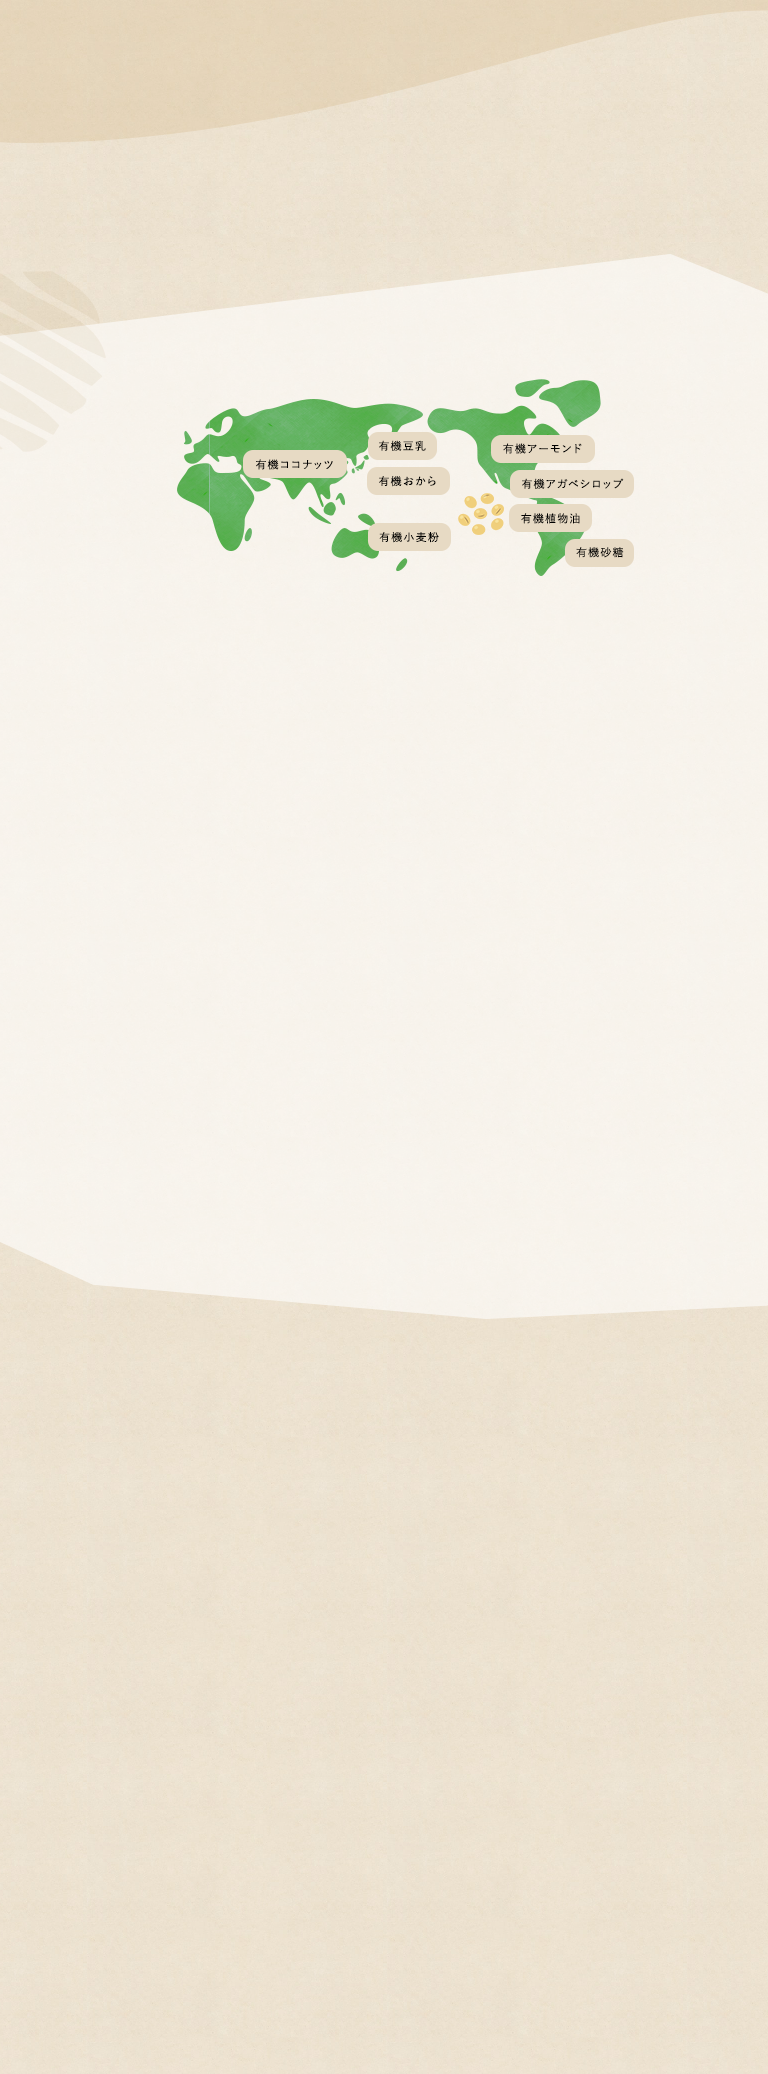
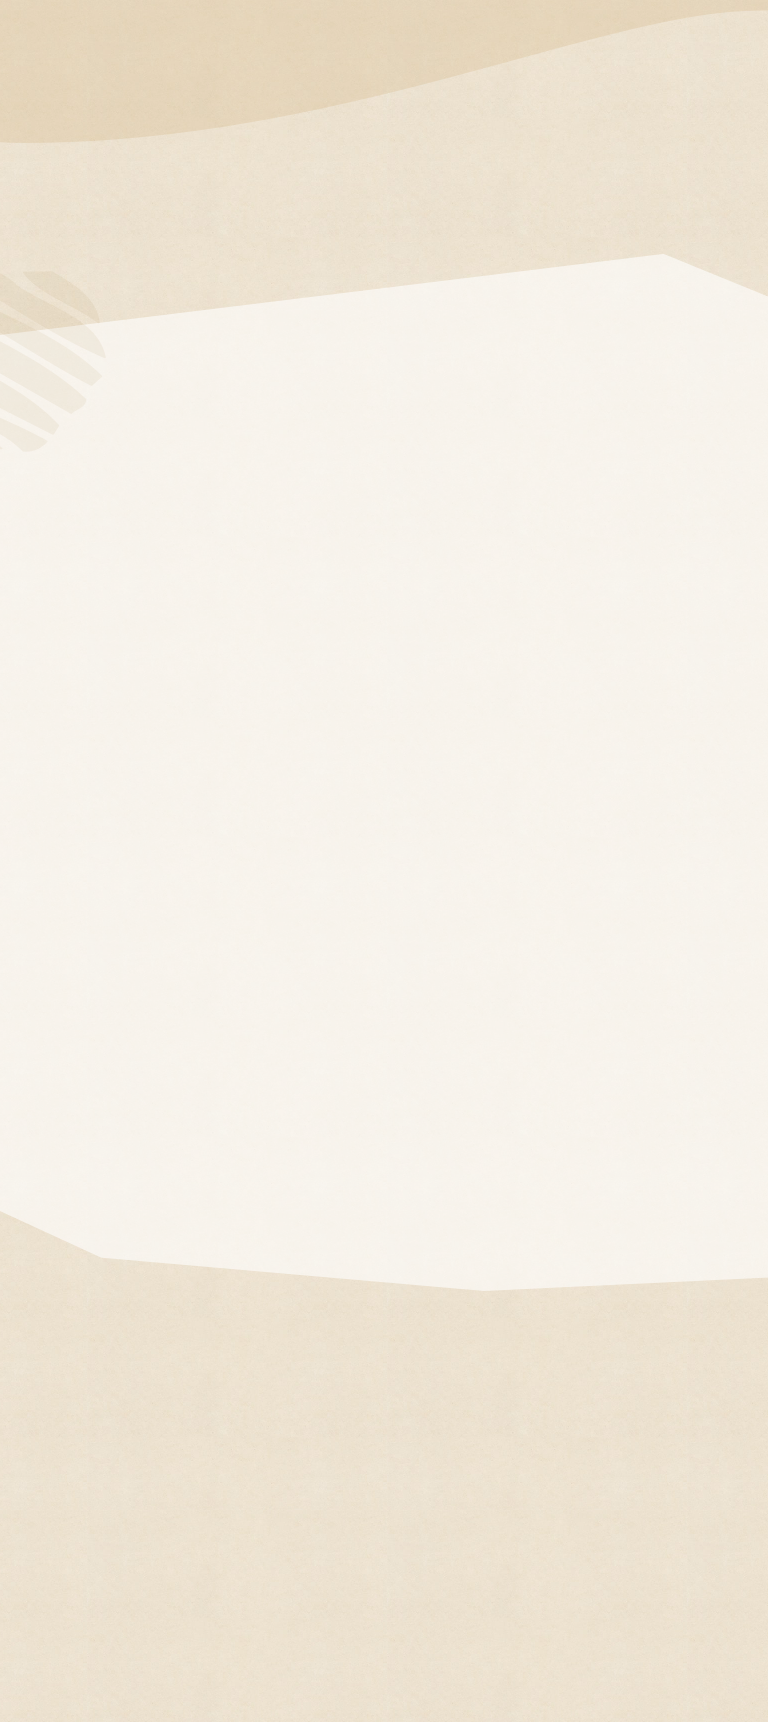
ワールドのスマホ用背景とこだわりのボックス画像を修正

Changed region(s): [[0.0, 0.5848, 1.0, 0.7695], [0.0, 0.1231, 1.0, 0.277]]

diff --git a/scss/main.scss b/scss/main.scss
@@ -1191,7 +1191,7 @@
     display: block;
     width: get_vw(700);
     height: get_vw(332);
-    margin-top: get_vw(17);
+    margin: get_vw(17) auto 0;
   }
   &__explanation {
     width: get_vw(444);
@@ -1253,8 +1253,8 @@
 }
 @media screen and (max-width: 768px) {
   .world {
-    height: sp-get_vw(2074);
-    padding-top: sp-get_vw(160);
+    height: sp-get_vw(1722);
+    padding-top: sp-get_vw(236);
     background-image: url(../img/world_bg-sp.png);
     background-size: cover;
     background-position: top;
@@ -1268,7 +1268,6 @@
       }
     }
     &__collect {
-      margin-top: sp-get_vw(150);
       margin-left: 4.51042vw;
       font-size: sp-get_vw(28);
     }
@@ -1276,18 +1275,13 @@
       display: none;
     }
     &__explanation {
-      margin-top: sp-get_vw(600);
-      padding: sp-get_vw(40);
+      width: get_vw(700);
       font-size: 16px;
       line-height:1.8;
     }
     &__delicious {
-      margin-top: sp-get_vw(100);
       margin-right: 7.76562vw;
       font-size: sp-get_vw(28);
-    }
-    &__distribution {
-      padding-top: sp-get_vw(40);
     }
   }
 }
@@ -1458,13 +1452,13 @@
       flex-direction: column;
     }
     &__okara {
-      width: sp-get_vw(680);
-      height: 113.16667vw;
+      width: sp-get_vw(675);
+      height: sp-get_vw(1380);
       margin: 0 auto;
       padding-top: sp-get_vw(60);
       padding-right: sp-get_vw(58);
       padding-left: sp-get_vw(68);
-      background-image: url(../img/commitment_okara-bg.png);
+      background-image: url(../img/commitment_okara-bg-sp.png);
       &-title {
         font-size: 3.64583vw;
       }
@@ -1475,12 +1469,12 @@
     }
     &__recipe {
       width: sp-get_vw(680);
-      height: 113.16667vw;
+      height: sp-get_vw(1380);
       margin: 0 auto;
       padding-top: sp-get_vw(60);
       padding-right: sp-get_vw(58);
       padding-left: sp-get_vw(60);
-      background-image: url(../img/commitment_recipe-bg.png);
+      background-image: url(../img/commitment_recipe-bg-sp.png);
       background-position: center;
       &-title {
         font-size: 3.64583vw;

diff --git a/css/style.css b/css/style.css
@@ -1261,7 +1261,7 @@
   display: block;
   width: 54.6875vw;
   height: 25.9375vw;
-  margin-top: 1.32812vw;
+  margin: 1.32812vw auto 0;
 }
 
 .world__explanation {
@@ -1327,8 +1327,8 @@
 
 @media screen and (max-width: 768px) {
   .world {
-    height: 270.05208vw;
-    padding-top: 20.83333vw;
+    height: 224.21875vw;
+    padding-top: 30.72917vw;
     background-image: url(../img/world_bg-sp.png);
     background-size: cover;
     background-position: top;
@@ -1343,7 +1343,6 @@
     background-image: url(../img/world_title-bg-sp.png);
   }
   .world__collect {
-    margin-top: 19.53125vw;
     margin-left: 4.51042vw;
     font-size: 3.64583vw;
   }
@@ -1351,18 +1350,13 @@
     display: none;
   }
   .world__explanation {
-    margin-top: 78.125vw;
-    padding: 5.20833vw;
+    width: 54.6875vw;
     font-size: 16px;
     line-height: 1.8;
   }
   .world__delicious {
-    margin-top: 13.02083vw;
     margin-right: 7.76562vw;
     font-size: 3.64583vw;
-  }
-  .world__distribution {
-    padding-top: 5.20833vw;
   }
 }
 
@@ -1547,13 +1541,13 @@
     flex-direction: column;
   }
   .commitment__okara {
-    width: 88.54167vw;
-    height: 113.16667vw;
+    width: 87.89062vw;
+    height: 179.6875vw;
     margin: 0 auto;
     padding-top: 7.8125vw;
     padding-right: 7.55208vw;
     padding-left: 8.85417vw;
-    background-image: url(../img/commitment_okara-bg.png);
+    background-image: url(../img/commitment_okara-bg-sp.png);
   }
   .commitment__okara-title {
     font-size: 3.64583vw;
@@ -1564,12 +1558,12 @@
   }
   .commitment__recipe {
     width: 88.54167vw;
-    height: 113.16667vw;
+    height: 179.6875vw;
     margin: 0 auto;
     padding-top: 7.8125vw;
     padding-right: 7.55208vw;
     padding-left: 7.8125vw;
-    background-image: url(../img/commitment_recipe-bg.png);
+    background-image: url(../img/commitment_recipe-bg-sp.png);
     background-position: center;
   }
   .commitment__recipe-title {
